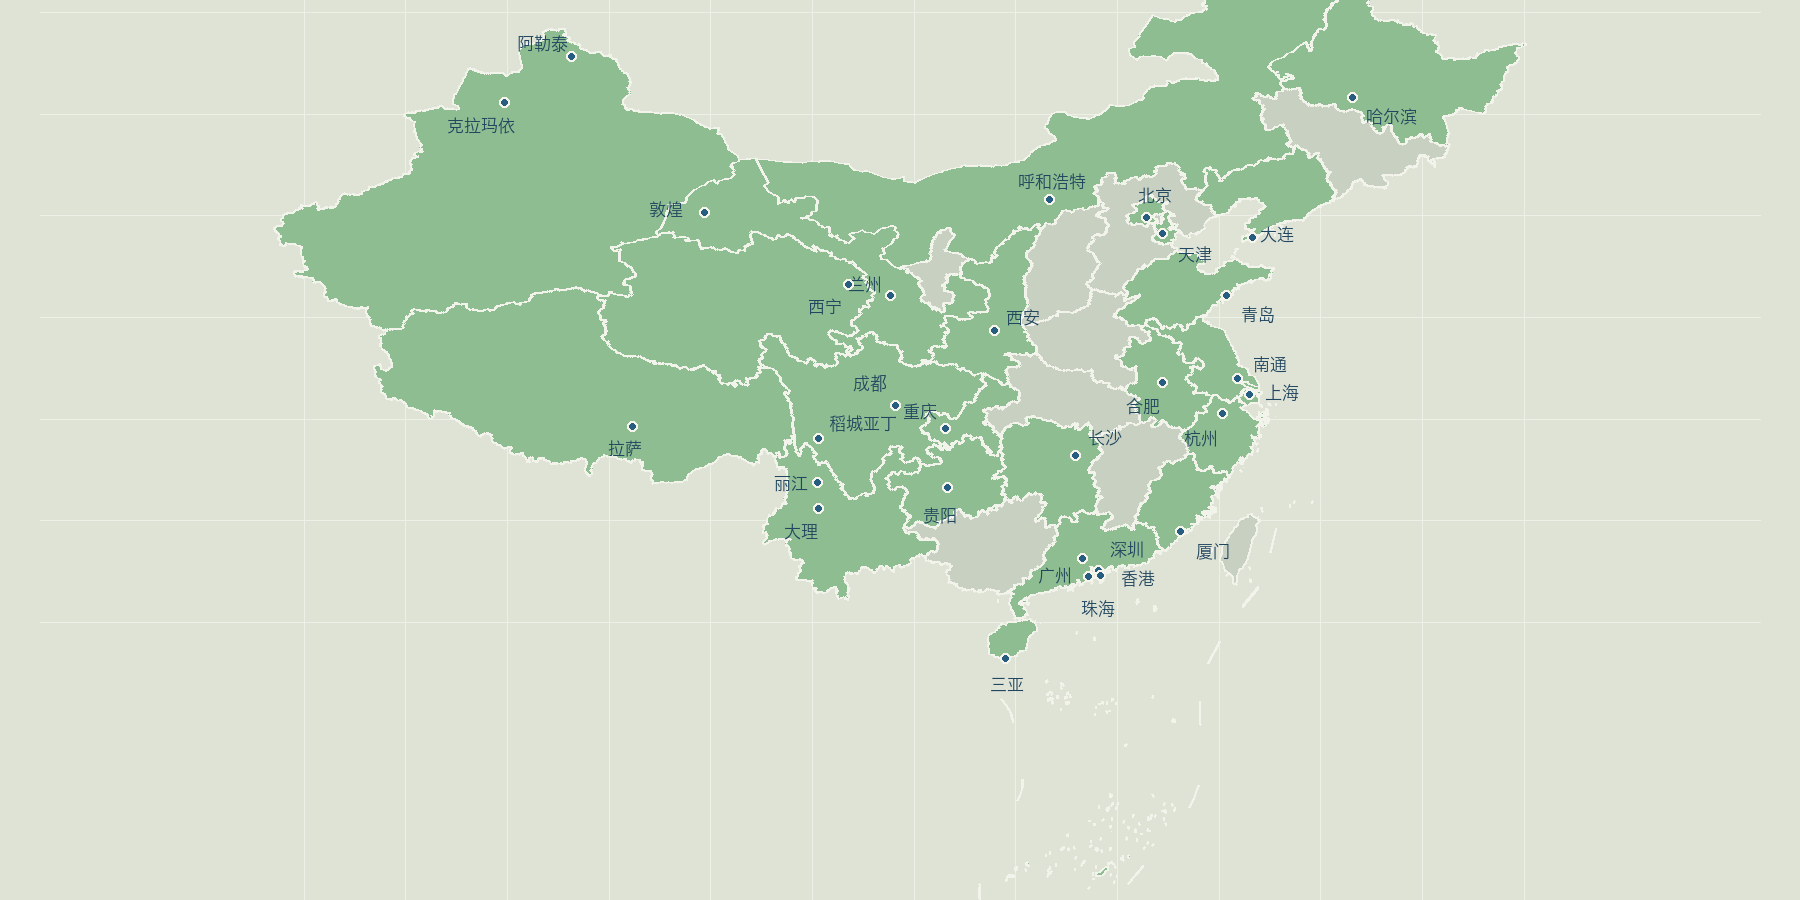
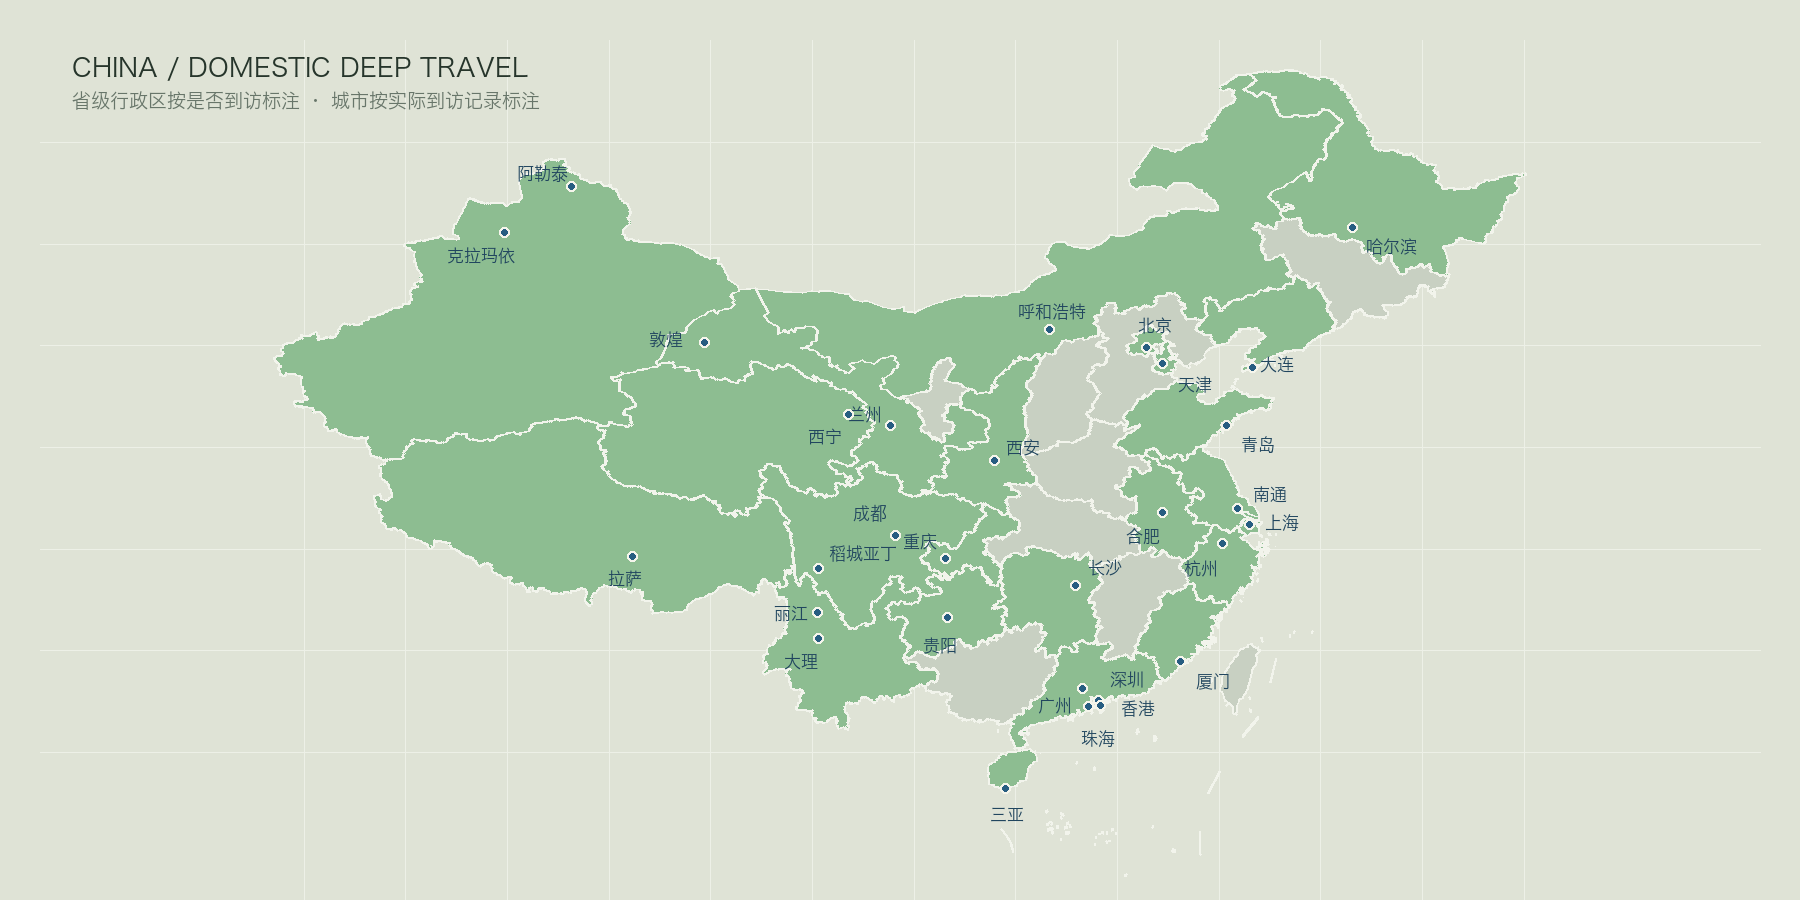
Keep full domestic map visible

Changed region(s): [[0.0311, 0.0, 0.84, 0.8711], [0.3111, 0.3111, 0.3422, 0.3422]]

diff --git a/index.html b/index.html
@@ -133,8 +133,8 @@
     .map-panel:hover{transform:translateY(-6px);box-shadow:0 26px 60px rgba(14,23,38,.14);border-color:rgba(123,92,255,.4)}
     .map-panel img{display:block;width:100%;height:100%;object-fit:cover}
     .world-panel{min-height:460px}
-    .china-panel{min-height:500px}
-    .china-panel img{object-fit:cover;background:#e9f0ee;object-position:50% 50%}
+    .china-panel{aspect-ratio:2 / 1;min-height:0}
+    .china-panel img{object-fit:contain;background:#e9f0ee;object-position:50% 0}
     .map-caption{position:absolute;left:0;right:0;bottom:0;padding:25px;display:flex;justify-content:space-between;align-items:end;gap:14px;background:linear-gradient(transparent,rgba(14,23,38,.86) 70%)}
     .map-caption h3{margin:0;font-size:24px;line-height:1.2;letter-spacing:-.02em;color:#fff}
     .map-caption span{font:10px/1.5 var(--mono);letter-spacing:.1em;color:#dfe7ef;text-align:right}
